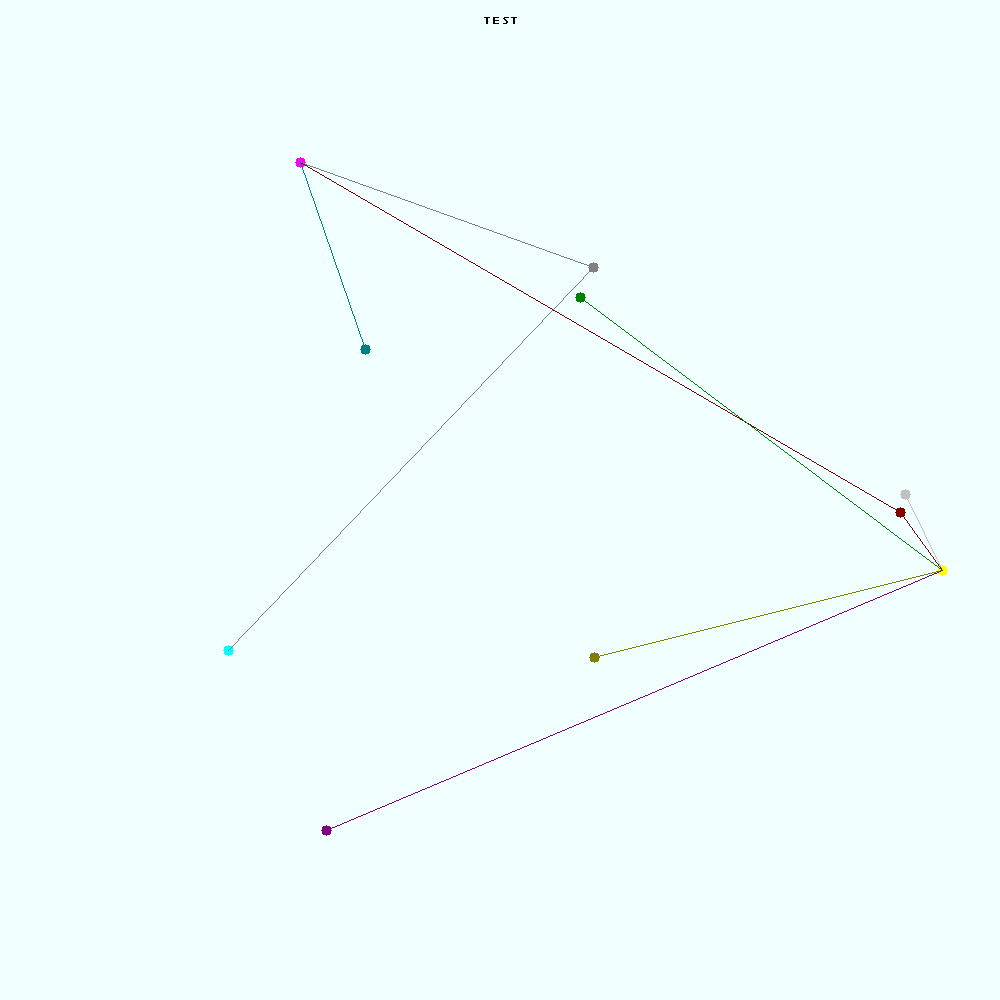
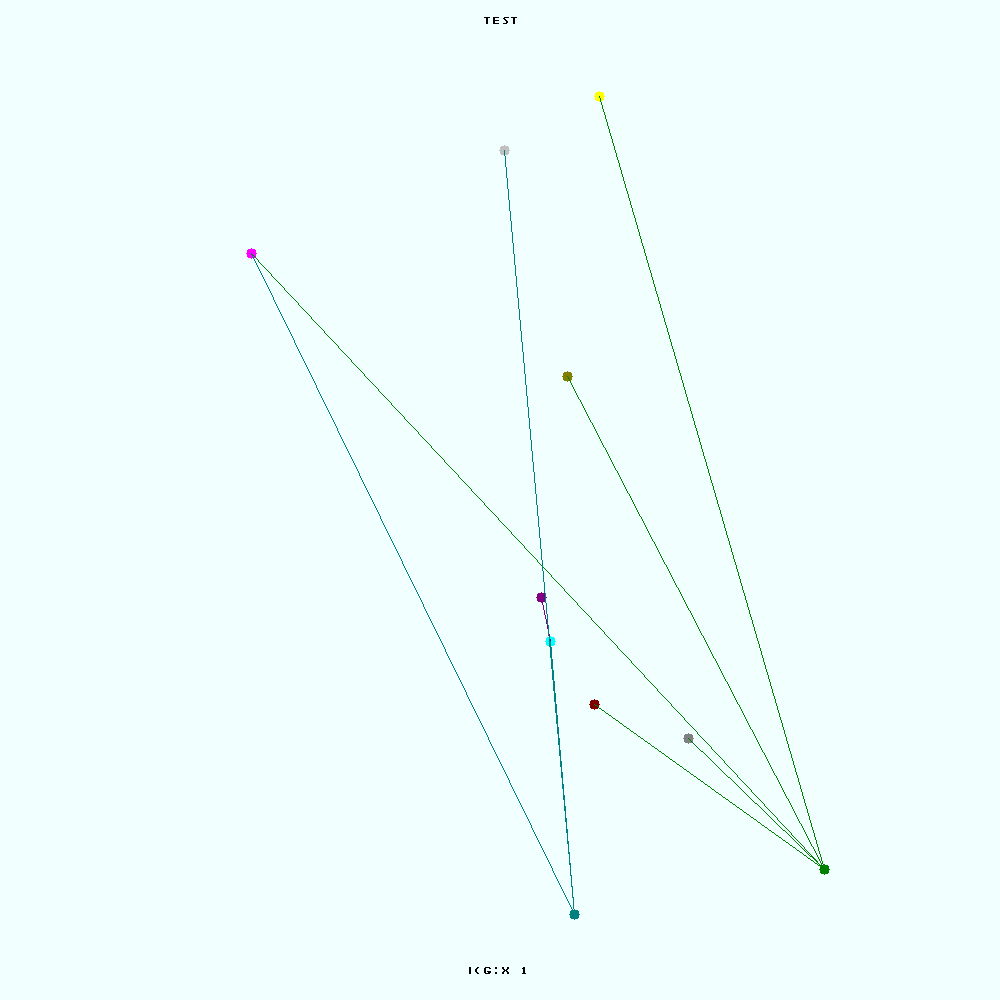
Features Added

diff --git a/Tree_G.h b/Tree_G.h
@@ -430,7 +430,7 @@ public:
 	void Draw_Graph();
 	void Draw_Graph(char const *f_name);
 	void Draw_Graph(char const *f_name, int mod);
-
+	void set_IPoly(string Poly) { this->IPoly = Poly; }
 
 
 protected:
@@ -445,6 +445,7 @@ protected:
 
 	Image ImageBody;
 	Color_Palette CSET;
+	string IPoly;
 };
 
 
@@ -499,6 +500,8 @@ void TreeGraph::Draw_Graph(char const *f_name) {
 			}
 		}
 	}
+
+	ImageBody.Draw_Text((this->size_v * 100)-30, (this->size_v * 100) / 2, IPoly.c_str(), CSET.Black);
 
 
 	ImageBody.Write_Image(f_name);

diff --git a/Polynomial.h b/Polynomial.h
@@ -102,6 +102,7 @@ public:
 
 	IndeP TimeSaver(const TreeGraph&);
 
+	string Get_PolyString();
 
 	~IndeP() { Holder.clear(); Holder.shrink_to_fit(); size = 0; };
 
@@ -375,4 +376,22 @@ IndeP IndeP::ComputeTree(const TreeGraph& T, IndeP& curr)
 
 	return curr;
 
+}
+
+
+string IndeP::Get_PolyString() {
+	stringstream ss;
+	string via;
+
+	ss << "I(G:X)=1";
+
+/*
+	for (int i = 0; i < (int)Holder.size() - 1; i++)
+	{
+		ss << Holder[i] << " + ";
+	}
+
+	ss << Holder[size - 1];
+	*/
+	return ss.str();
 }

diff --git a/Main.cpp b/Main.cpp
@@ -17,6 +17,7 @@ int main()
 
 
 	cout << P << endl;
+	x.set_IPoly(P.Get_PolyString());
 	x.Draw_Graph("TEST");
 
 
